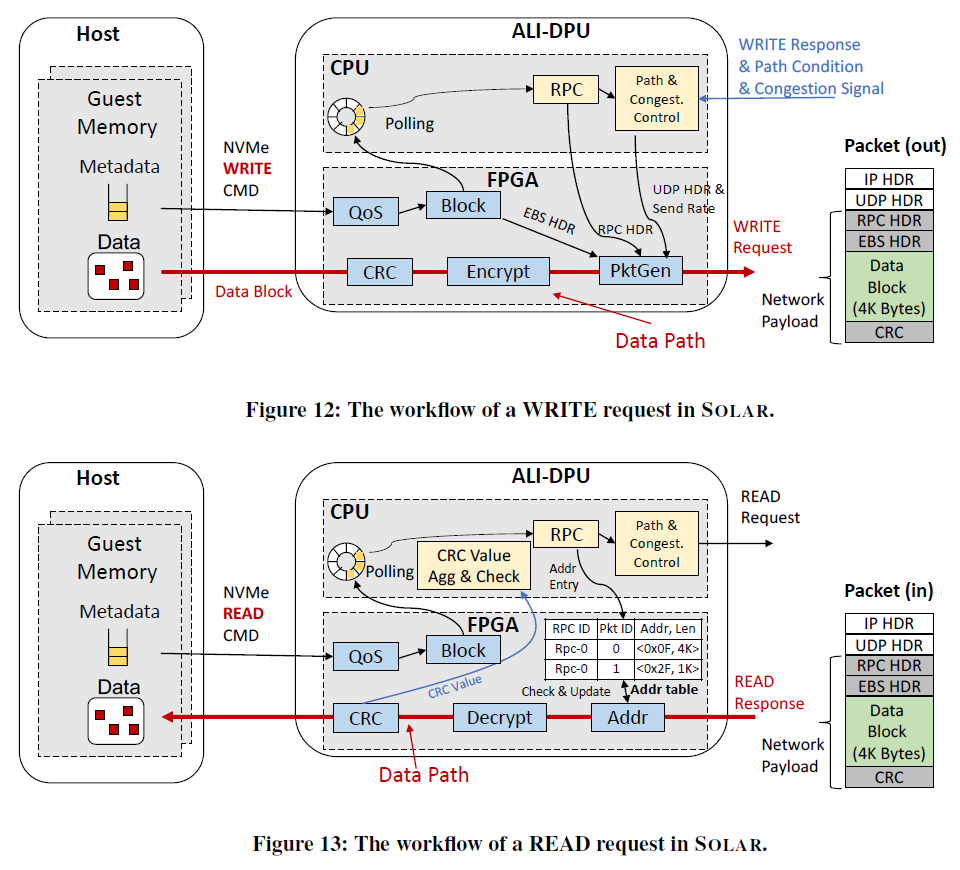
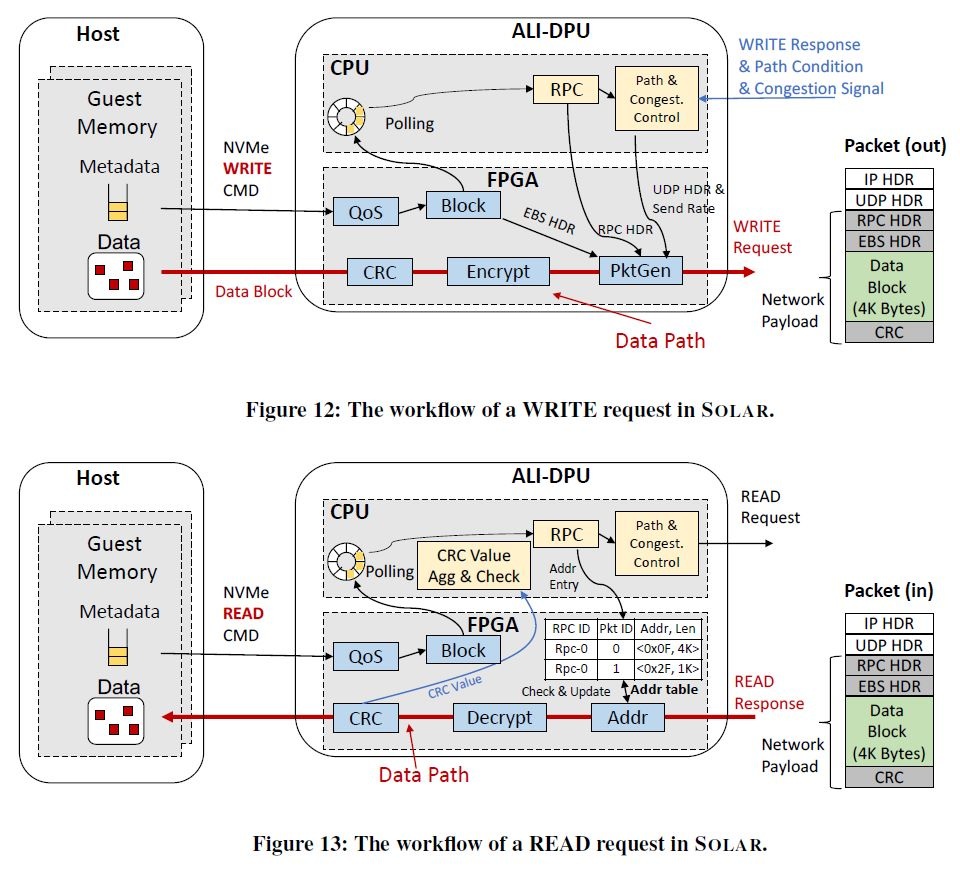
update: resize pics

diff --git a/source/_posts/深入理解Kubernetes.md b/source/_posts/深入理解Kubernetes.md
@@ -817,7 +817,7 @@ CRD的创建这部分书上代码不全且版本落后，具体例子可参考[s
 
 #### API编程范式的具体原理
 
-![](深入理解Kubernetes/8ea3266543164081af35dc4061d65cca.png)
+![](深入理解Kubernetes/8ea3266543164081af35dc4061d65cca.jpg)
 
 控制器通过`Informer`获取它关心的对象。`Informer`通过`Reflector`包与APIServer建立链接，获取并监听对象的(增量)变化【例如增减对象就是通过Indexer控制的】，将其放入队列中。同时也不断从队列中读取对象【通过go routine建立若干个无限循环的协程】，根据增量类型**修改informer的缓存**，调用对应handler【使用neutron去修改真正的集群内容】。
 
@@ -1006,7 +1006,7 @@ LocalPV(本地的持久化存储)的难点
 
 CSI的原理：
 
-<img src="深入理解Kubernetes/image-20230209140836991.png" alt="image-20230209140836991" style="zoom: 25%;" />
+<img src="深入理解Kubernetes/image-20230209140836991.jpg" alt="image-20230209140836991" style="zoom: 75%;" />
 
 - `Driver Registar`将插件注册到kubelet中，它需要请求`CSI Identity`的信息
 - `External Provisioner`负责provision，它监听PVC对象的创建，并调用`CSI Controller`的CreateVolume方法创建PV
@@ -1156,7 +1156,7 @@ spec:
 
 NetworkPolicy通过iptables规则来实现隔离，而iptables实际上操作的是Linux的Netfilter
 
-![img](深入理解Kubernetes/netfilter.png)
+![img](深入理解Kubernetes/netfilter.jpg)
 
 #### 找到容器不容易：Service、DNS与服务发现
 

diff --git a/source/_posts/Docker网络虚拟化.md b/source/_posts/Docker网络虚拟化.md
@@ -52,13 +52,13 @@ Docker容器使用了LinuxNetwork Namepsace，并在宿主机上创建了docker0
 > nsenter -t `docker inspect --format '{{.State.Pid}}' busybox` -n ip -d link show #进入该容器namespace并查看链路层相关接口
 > ```
 >
-> ![image-20230107171508344](Docker网络虚拟化/image-20230107171508344.png)
+> ![image-20230107171508344](Docker网络虚拟化/image-20230107171508344.jpg)
 >
 > 可以看到此时容器中除了有loopback接口之外，还有一个ifindex(interface index)为13的`veth`设备接口，该设备从eth0指向if14。这里eth0是namespace中为了虚拟化而起的别名。
 >
 > 回到主namespace，执行`ip -d link show`
 >
-> ![image-20230107172025305](Docker网络虚拟化/image-20230107172025305.png)
+> ![image-20230107172025305](Docker网络虚拟化/image-20230107172025305.jpg)
 >
 > 可以看到主namespace下if14正是一条前往if13的veth，并且该接口正属于docker0的bridge。
 
@@ -66,7 +66,7 @@ Docker会将默认的子网172.17.0.0/16应用于docker0，同时对于新产生
 
 > 进入容器后查看ip和路由
 >
-> <img src="Docker网络虚拟化/image-20230107175917501.png" alt="image-20230107175917501" style="zoom:50%;" />
+> <img src="Docker网络虚拟化/image-20230107175917501.jpg" alt="image-20230107175917501" style="zoom:50%;" />
 
 docker0则使用NAT代理所有的内部请求至Docker拥有的与宿主机处于同一网段的single-host的ip，从而实现内外部的通信。
 

diff --git a/source/_posts/造血干细胞捐献日记.md b/source/_posts/造血干细胞捐献日记.md
@@ -19,7 +19,7 @@ date: 2023-02-06 23:19:25
 
 当天下午感觉自己还算做了一件有意义的事情，想到可能未来十年八年后的一天突然接到一个配型成功的电话，不禁有些忐忑。从工会一路走到南区，时值暖春，生机勃勃，顺手拍下的一张照片刚好记下了我那时的心情。
 
-<img src="造血干细胞捐献日记/image-20230206232731357.png" alt="image-20230206232731357" style="zoom:50%;" />
+<img src="造血干细胞捐献日记/image-20230206232731357.jpg" alt="image-20230206232731357" style="zoom:50%;" />
 
 ##### 2022年10月31日——初配成功
 
